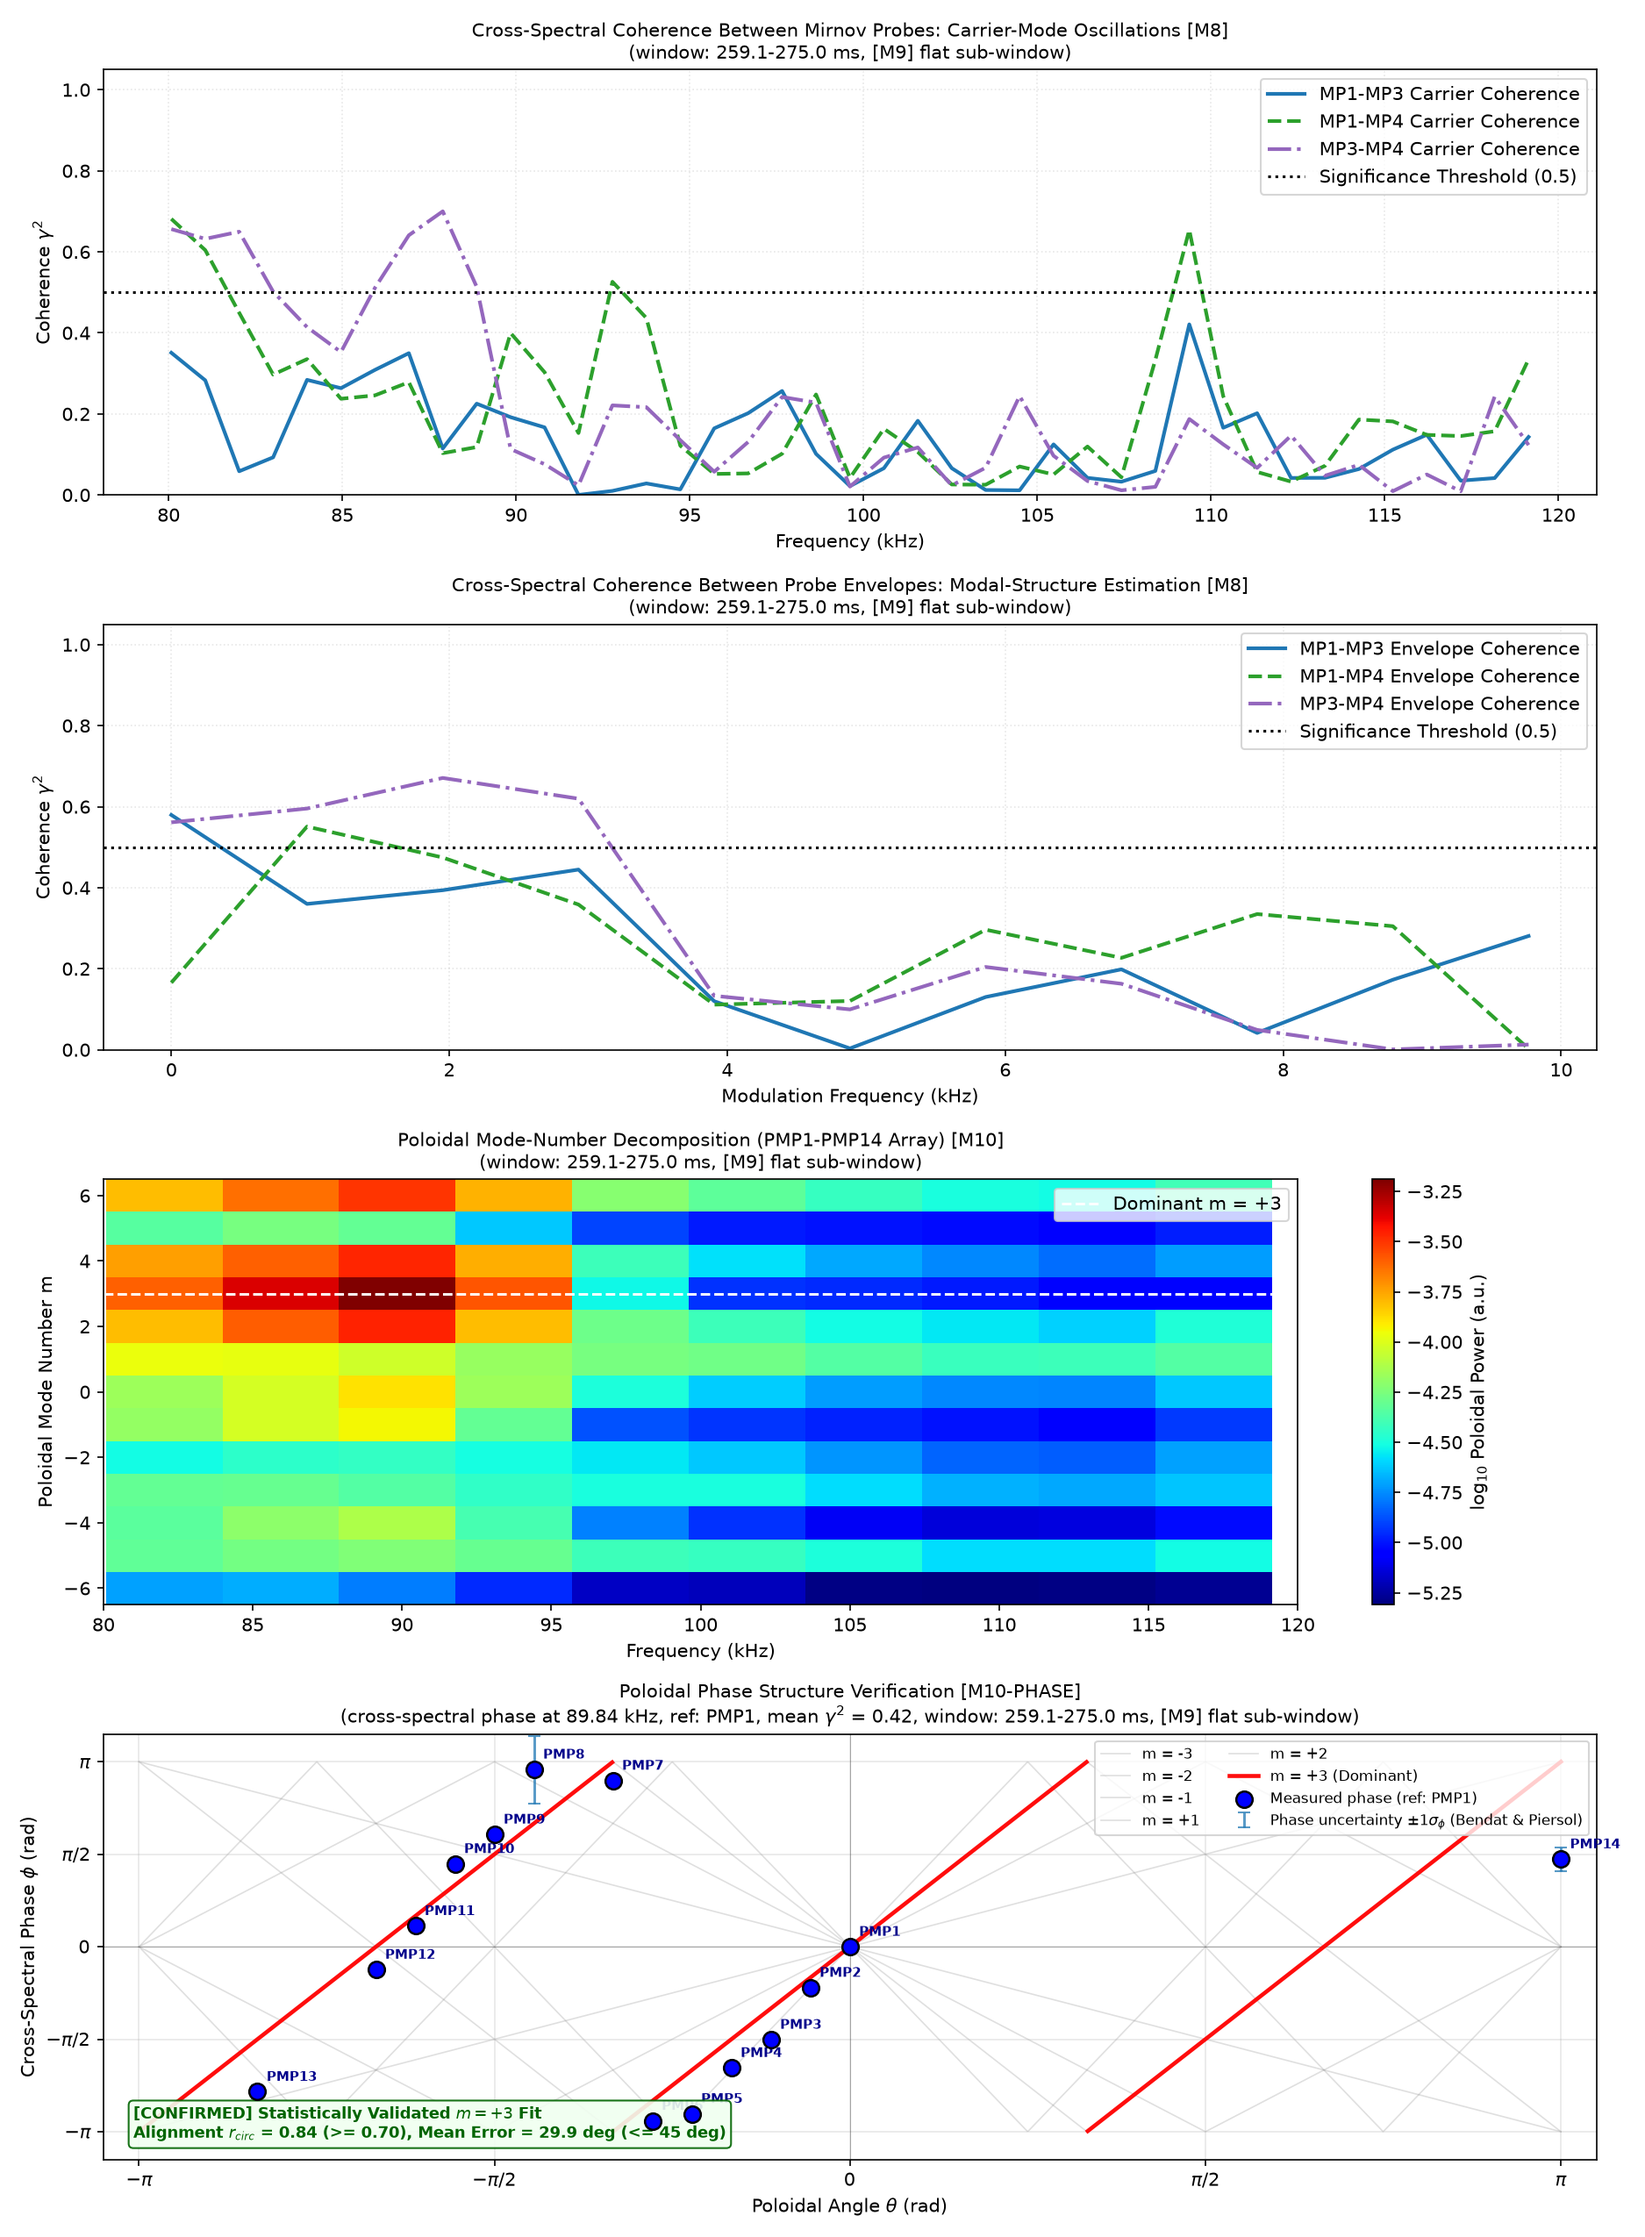
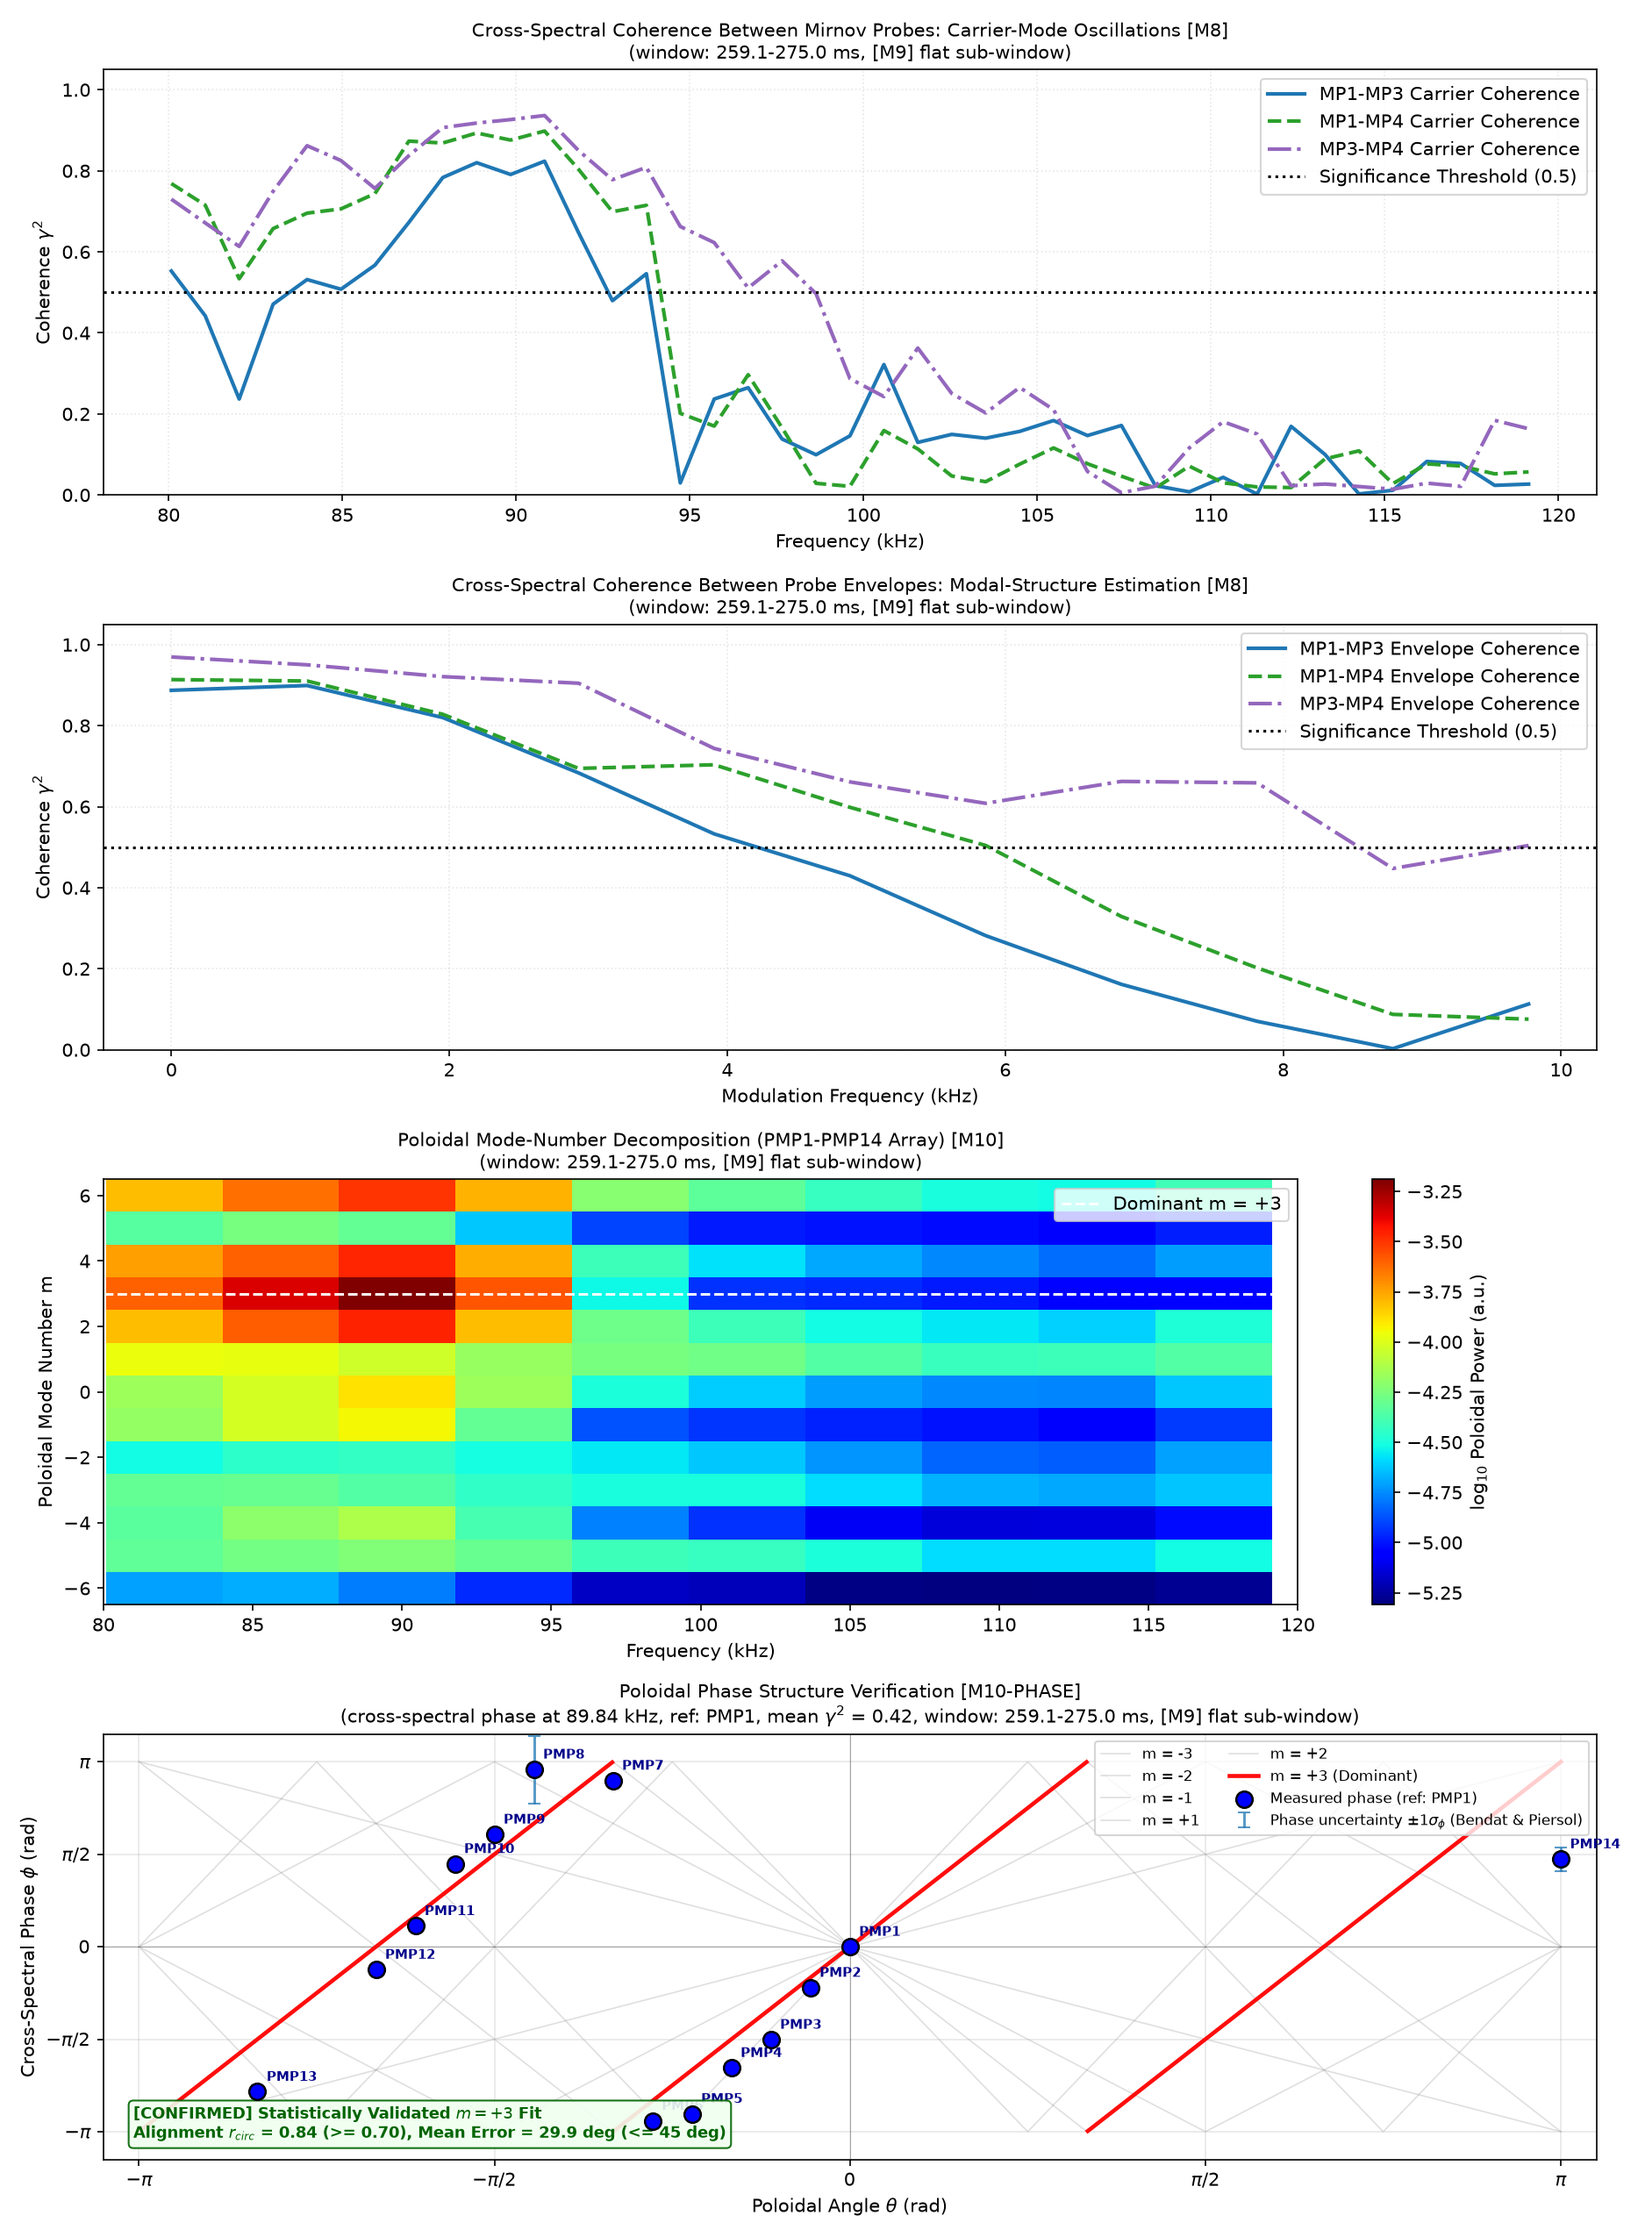
baseline before antigravity optimization

diff --git a/analysis/mhd_analysis_obj2.py b/analysis/mhd_analysis_obj2.py
@@ -183,14 +183,16 @@ def lagged_pearson_significance(x, y, dt_corr, lag_ms):
 # -------------------------------------------------------------------------------------------
 def compute_probe_pair_coherence(signal_dict, key, pairs, t_sec, dt, args, nfft=None):
     nfft_use = nfft if nfft is not None else args.nfft
+    noverlap = nfft_use // 2
     results = {}
     for (pa, pb) in pairs:
         if pa in signal_dict and pb in signal_dict:
             xa = signal_dict[pa][key]
             xb = signal_dict[pb][key]
+            n_ens = max(1, (len(xa) - nfft_use) // (nfft_use - noverlap) + 1)
             f_pair, Pxy_pair, Pyy_pair, Pxx_pair = LAS.csd(
                 xa, t_sec, xb, dt=dt, nfft=nfft_use,
-                noverlap=nfft_use // 2, nensemble=args.ensemble, window='hann', detrend='constant'
+                noverlap=noverlap, nensemble=n_ens, window='hann', detrend='constant'
             )
             coh2_pair = LAS.xcoh2(Pxy_pair, Pyy_pair, Pxx_pair)
             mean_coh2_pair = np.mean(coh2_pair, axis=1) if coh2_pair.ndim > 1 else coh2_pair

diff --git a/analysis/obj2_dynamics_and_structure/mhd_analysis_obj2.py b/analysis/obj2_dynamics_and_structure/mhd_analysis_obj2.py
@@ -191,14 +191,16 @@ def lagged_pearson_significance(x, y, dt_corr, lag_ms):
 # -------------------------------------------------------------------------------------------
 def compute_probe_pair_coherence(signal_dict, key, pairs, t_sec, dt, args, nfft=None):
     nfft_use = nfft if nfft is not None else args.nfft
+    noverlap = nfft_use // 2
     results = {}
     for (pa, pb) in pairs:
         if pa in signal_dict and pb in signal_dict:
             xa = signal_dict[pa][key]
             xb = signal_dict[pb][key]
+            n_ens = max(1, (len(xa) - nfft_use) // (nfft_use - noverlap) + 1)
             f_pair, Pxy_pair, Pyy_pair, Pxx_pair = LAS.csd(
                 xa, t_sec, xb, dt=dt, nfft=nfft_use,
-                noverlap=nfft_use // 2, nensemble=args.ensemble, window='hann', detrend='constant'
+                noverlap=noverlap, nensemble=n_ens, window='hann', detrend='constant'
             )
             coh2_pair = LAS.xcoh2(Pxy_pair, Pyy_pair, Pxx_pair)
             mean_coh2_pair = np.mean(coh2_pair, axis=1) if coh2_pair.ndim > 1 else coh2_pair

diff --git a/analysis/obj2_dynamics_and_structure/run_obj2.py b/analysis/obj2_dynamics_and_structure/run_obj2.py
@@ -29,9 +29,9 @@ def main():
         ("1. Macroscopic Heating & Confinement vs. Mirnov Fluctuation",
          [sys.executable, str(current / "heating_vs_mirnov.py")]),
         ("2. Secondary Mode Band (40 - 80 kHz): Heating Sync & Structure",
-         [sys.executable, str(current / "mhd_analysis_obj2.py"), "--shots", "88653", "--fmin", "40", "--fmax", "80"]),
+         [sys.executable, str(current / "mhd_analysis_obj2.py"), "--shots", "88653", "-l", "40", "-u", "80"]),
         ("3. Primary Mode Band (80 - 120 kHz): Heating Sync & Structure",
-         [sys.executable, str(current / "mhd_analysis_obj2.py"), "--shots", "88653", "--fmin", "80", "--fmax", "120"]),
+         [sys.executable, str(current / "mhd_analysis_obj2.py"), "--shots", "88653", "-l", "80", "-u", "120"]),
         ("4. 2D Unfolded Magnetic Surface Map ((m,n) Structure)",
          [sys.executable, str(current / "mhd_plot_2d_torus_maps.py")]),
         ("5. B_tilde vs. Envelope Self-Coupling Cross-Spectral Coherence",

diff --git a/analysis/obj2_dynamics_and_structure/mhd_analysis_obj2_80_120.py b/analysis/obj2_dynamics_and_structure/mhd_analysis_obj2_80_120.py
@@ -187,14 +187,16 @@ def lagged_pearson_significance(x, y, dt_corr, lag_ms):
 
 def compute_probe_pair_coherence(signal_dict, key, pairs, t_sec, dt, args, nfft=None):
     nfft_use = nfft if nfft is not None else args.nfft
+    noverlap = nfft_use // 2
     results = {}
     for (pa, pb) in pairs:
         if pa in signal_dict and pb in signal_dict:
             xa = signal_dict[pa][key]
             xb = signal_dict[pb][key]
+            n_ens = max(1, (len(xa) - nfft_use) // (nfft_use - noverlap) + 1)
             f_pair, Pxy_pair, Pyy_pair, Pxx_pair = LAS.csd(
                 xa, t_sec, xb, dt=dt, nfft=nfft_use,
-                noverlap=nfft_use // 2, nensemble=args.ensemble, window='hann', detrend='constant'
+                noverlap=noverlap, nensemble=n_ens, window='hann', detrend='constant'
             )
             coh2_pair = LAS.xcoh2(Pxy_pair, Pyy_pair, Pxx_pair)
             mean_coh2_pair = np.mean(coh2_pair, axis=1) if coh2_pair.ndim > 1 else coh2_pair
